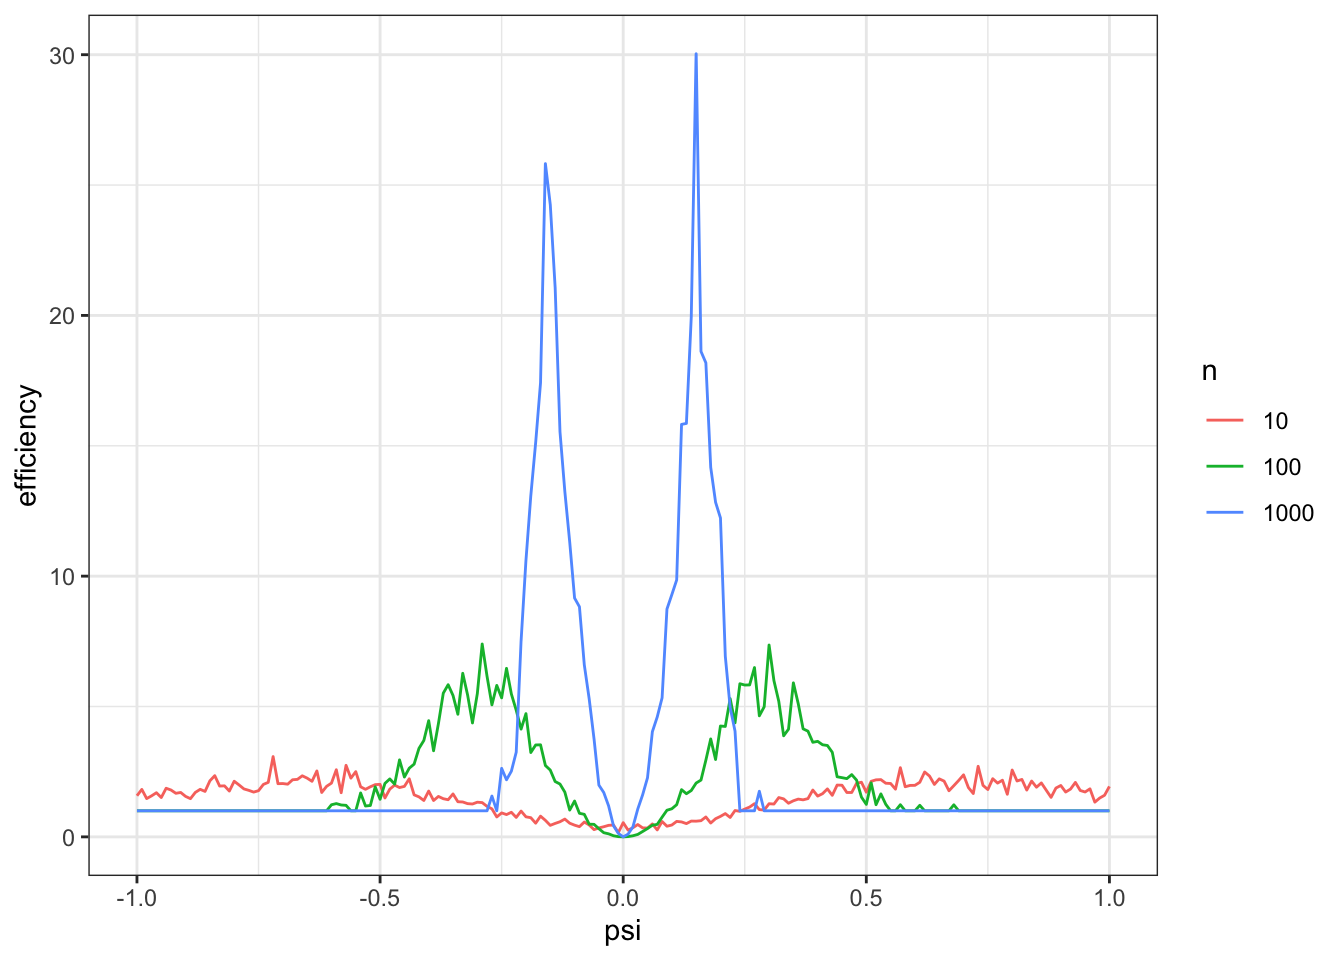
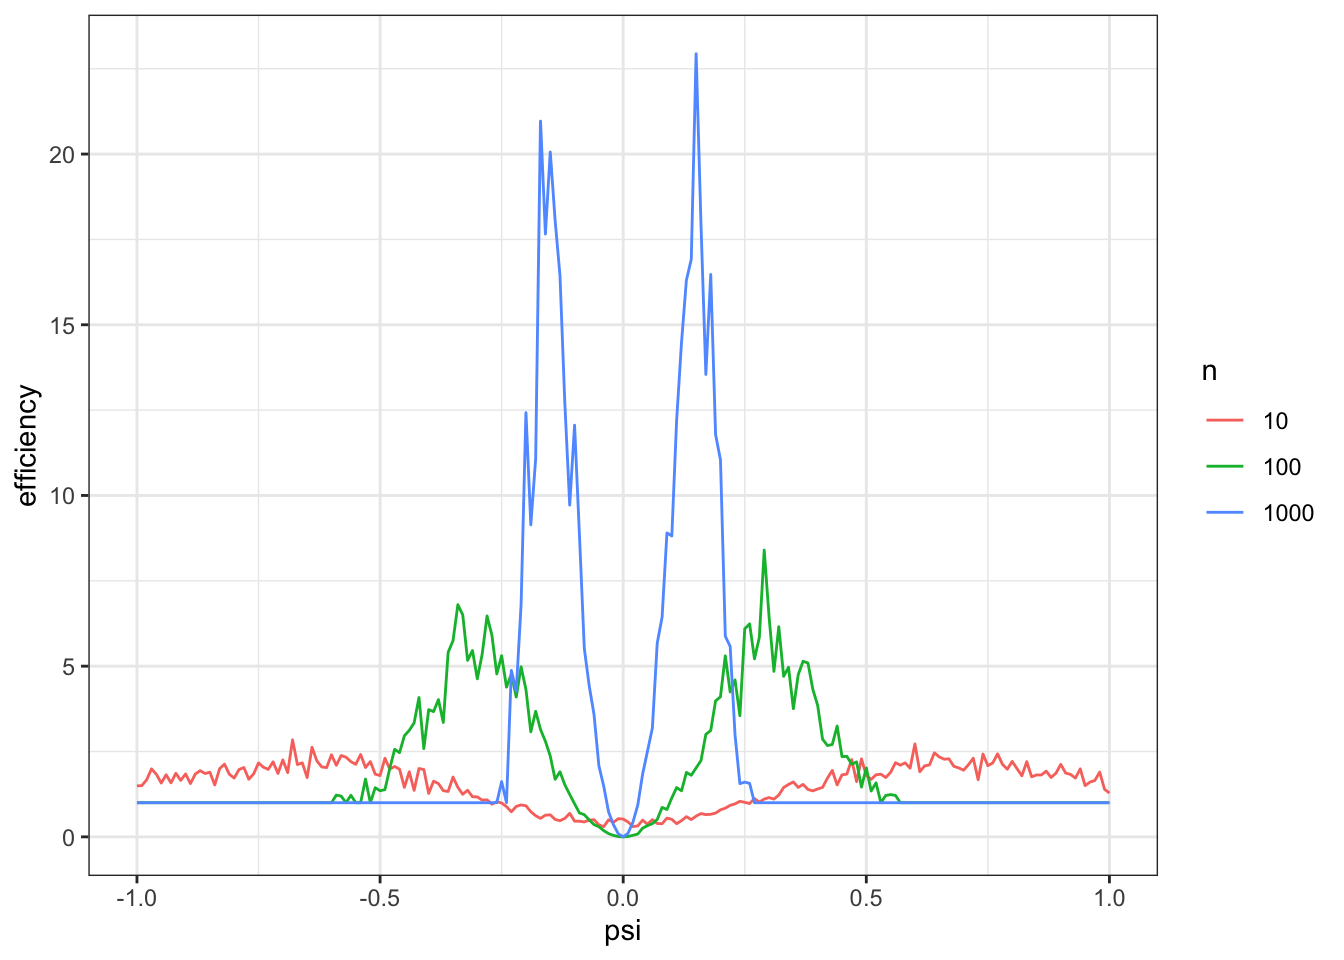
Clean tracked files now ignored

diff --git a/docs/3-2-regularity.html b/docs/3-2-regularity.html
@@ -272,11 +272,23 @@ window.Quarto = {
 \end{cases}
 \end{aligned}
 \]</span></p>
-<p>The first estimator is just the usual sample mean. The second is what is called <em>Hodges’ estimator</em>. It is an alternative that usually behaves similarly to the sample mean in large samples, but prefers to estimate 0 in small samples.</p>
-<p>[pic: hodges as a fn of sample mean for different n]</p>
-<p>Since <span class="math inline">\(Z\)</span> are normal random variables with unit variance and mean <span class="math inline">\(\psi\)</span>, we know that the sample mean has the exact distribution <span class="math inline">\(\mathcal N(\psi, 1 / n)\)</span>. Thus it follows that <span class="math display">\[
+<p>The first estimator is just the usual sample mean. The second is what is called <em>Hodges’ estimator</em>. When the sample is large, Hodges’ estimator almost always returns the sample mean. But when the sample is small, Hodges’ estimator often ignores the sample mean and returns zero.</p>
+<p>Let’s compare the asymptotic sampling distributions of the two. Since <span class="math inline">\(Z\)</span> are normal random variables with unit variance and mean <span class="math inline">\(\psi\)</span>, we know that the sample mean has the exact distribution <span class="math inline">\(\mathcal N(\psi, 1 / n)\)</span>. Thus it follows that <span class="math display">\[
 \sqrt{n}(\hat\psi - \psi) \rightsquigarrow \mathcal N(0, 1)
 \]</span></p>
+<div class="callout callout-style-default callout-warning no-icon callout-titled">
+<div class="callout-header d-flex align-content-center">
+<div class="callout-icon-container">
+<i class="callout-icon no-icon"></i>
+</div>
+<div class="callout-title-container flex-fill">
+Warning
+</div>
+</div>
+<div class="callout-body-container callout-body">
+<p>If you are not familiar with convergence in distribution you should work through <a href="5-1-rv-convergence.html" class="quarto-xref"><span>Appendix A</span></a> now.</p>
+</div>
+</div>
 <p>Hodges’ estimator, however, has the following asymptotic distribution:</p>
 <p><span class="math display">\[
 \sqrt{n}(\hat\psi - \psi) \rightsquigarrow
@@ -286,7 +298,7 @@ window.Quarto = {
 \end{cases}
 \]</span></p>
 <div class="callout callout-style-simple callout-note no-icon callout-titled">
-<div class="callout-header d-flex align-content-center" data-bs-toggle="collapse" data-bs-target=".callout-1-contents" aria-controls="callout-1" aria-expanded="false" aria-label="Toggle callout">
+<div class="callout-header d-flex align-content-center" data-bs-toggle="collapse" data-bs-target=".callout-2-contents" aria-controls="callout-2" aria-expanded="false" aria-label="Toggle callout">
 <div class="callout-icon-container">
 <i class="callout-icon no-icon"></i>
 </div>
@@ -295,7 +307,7 @@ Derivation of the asymptotic distribution of Hodges’ estimator
 </div>
 <div class="callout-btn-toggle d-inline-block border-0 py-1 ps-1 pe-0 float-end"><i class="callout-toggle"></i></div>
 </div>
-<div id="callout-1" class="callout-1-contents callout-collapse collapse">
+<div id="callout-2" class="callout-2-contents callout-collapse collapse">
 <div class="callout-body-container callout-body">
 <p>Let’s prove that <span class="math inline">\(\sqrt{n}(\hat\psi - \psi) \rightsquigarrow \mathcal N(0, 0)\)</span> when the mean of <span class="math inline">\(Z\)</span> is zero. This will require some understanding of what is meant formally by convergence in probability and a common probability tool called Chebyshev’s inequality. It’s not at all important to understand this proof, I just provide it for completeness and as a refresher for those who are familiar with this kind of argument.</p>
 <p>That statement is the same as saying that <span class="math inline">\(\sqrt{n}(\hat\psi - \psi) \overset{\mathbb P}{\to} 0\)</span>, which we will prove. For any <span class="math inline">\(\epsilon &gt; 0\)</span>,</p>
@@ -455,7 +467,7 @@ Warning
 </section>
 <section id="regularity" class="level2" data-number="2.2">
 <h2 data-number="2.2" class="anchored" data-anchor-id="regularity"><span class="header-section-number">2.2</span> Regularity</h2>
-<p>We’ve identified a problem with just looking at AL estimators: there are always AL estimators that look good in terms of their pointwise asymptotics but are actually bad because they just move the problem around in a way that makes it invisible to the asymptotics.</p>
+<p>We’ve identified a problem with looking only at AL estimators: there are always AL estimators that look good in terms of their pointwise asymptotics but are actually bad because they just move the problem around in a way that makes it invisible to the asymptotics.</p>
 <p>To rule this out, we’ll impose an addition condition called <em>regularity</em>. In a rough sense, regularity usually does two things: it means that limit distributions vary smoothly (so, for example, power calculations are reliable) and that the estimator approaches its limit distribution in a (locally) uniform way across the model (so that asymptotics can’t hide bad performance that moves around the model).</p>
 <p>We will start with a toy definition of regularity that we will build up to the formal definition in the next few sections. That will require us to introduce and explain a few abstractions but these will also come in handy later so it’s worth doing. For now, though, here’s a first draft:</p>
 <div class="callout callout-style-default callout-note no-icon callout-titled">
@@ -469,11 +481,16 @@ Regularity (version 1)
 </div>
 <div class="callout-body-container callout-body">
 <div id="def-regularity-1" class="theorem definition">
-<p><span class="theorem-title"><strong>Definition 2.1</strong></span> &nbsp;</p>
-<!-- An estimator $\hat\Psi$ is *regular* in the model $\mathcal P = \{\mathcal N(\psi, 1):\psi \in \mathbb R\}$ if the sampling distribution of $\sqrt{n}(\hat\Psi(\mathbb P_n^#) - \Psi(\mathbb P_n)) \rightsquigarrow \mathcal N(\psi, 1)$ -->
+<p><span class="theorem-title"><strong>Definition 2.1</strong></span> An estimator <span class="math inline">\(\hat\Psi\)</span> is <em>regular</em> in the model <span class="math inline">\(\mathcal P = \{\mathcal N(\psi, 1):\psi \in \mathbb R\}\)</span> if the sampling distribution of <span class="math display">\[
+\sqrt{n}\left(\hat\Psi(\mathsf P_{\mathsf n, n}) - \Psi\left(\mathrm P_n\right)\right) \rightsquigarrow \mathsf N(0, 1)
+\]</span> for the sequence of distributions <span class="math inline">\(\mathbb P_n = \mathcal N(\psi + n^{-1/2}, 1)\)</span>.</p>
 </div>
 </div>
 </div>
+<p>To understand this definition, let’s first understand the following standard asymptotic statment which says that <span class="math inline">\(\hat\psi_n = \hat\Psi(\mathbb P_{\dot n})\)</span> is a <span class="math inline">\(\sqrt{n}\)</span>-asymptotically normal estimate of <span class="math inline">\(\psi = \Psi(\mathbb P)\)</span>: <span class="math display">\[
+\sqrt{n}\left(\hat\Psi(\mathbb P_{\dot n}) - \Psi\left(\mathbb P\right)\right) \rightsquigarrow \mathcal N(0, 1)
+\]</span></p>
+<p>For each sample size <span class="math inline">\(n\)</span>, the left-hand side here is a random variable corresponding to the scaled and centered sampling distribution of the estimator, drawing the <span class="math inline">\(n\)</span> data points from the distribution <span class="math inline">\(\mathbb P\)</span>. You can think of standing still at the distribution <span class="math inline">\(\mathbb P\)</span>, first drawing samples of size <span class="math inline">\(n=1\)</span> and generating the sampling distribution of <span class="math inline">\(\hat\psi_n\)</span></p>
 
 
 </section>

diff --git a/docs/5-2-L2.html b/docs/5-2-L2.html
@@ -238,6 +238,9 @@ window.Quarto = {
 </header>
 
 
+<p><span class="math inline">\(\mathcal{L}_2(\mathbb{P})\)</span></p>
+<p><span class="math inline">\(\mathcal{L}_2{p}\)</span></p>
+<p><span class="math inline">\(\mathbb{P}\)</span></p>
 <p>It will help you a lot to learn efficiency theory if you have a solid understanding of <span class="math inline">\(\mathcal L_2\)</span> and a few basic ideas from functional analysis. Many students of statistics are missing this background so I’ll try and give you the necessary intuition here.</p>
 <section id="sec-app-L2-vectors" class="level2" data-number="B.1">
 <h2 data-number="B.1" class="anchored" data-anchor-id="sec-app-L2-vectors"><span class="header-section-number">B.1</span> Vector Spaces</h2>

diff --git a/docs/3-1-AL.html b/docs/3-1-AL.html
@@ -260,7 +260,6 @@ Asymptotic Linearity
 </div>
 </div>
 </div>
-<p><a href="#def-AL" class="quarto-xref">Definition&nbsp;<span>1.1</span></a></p>
 <div class="callout callout-style-default callout-warning no-icon callout-titled">
 <div class="callout-header d-flex align-content-center">
 <div class="callout-icon-container">

diff --git a/before-title.tex b/before-title.tex
@@ -1,0 +1,2 @@
+% before-title.tex
+\include{_macros.qmd} % the \include acts like copy & paste (filetype does not matter)
